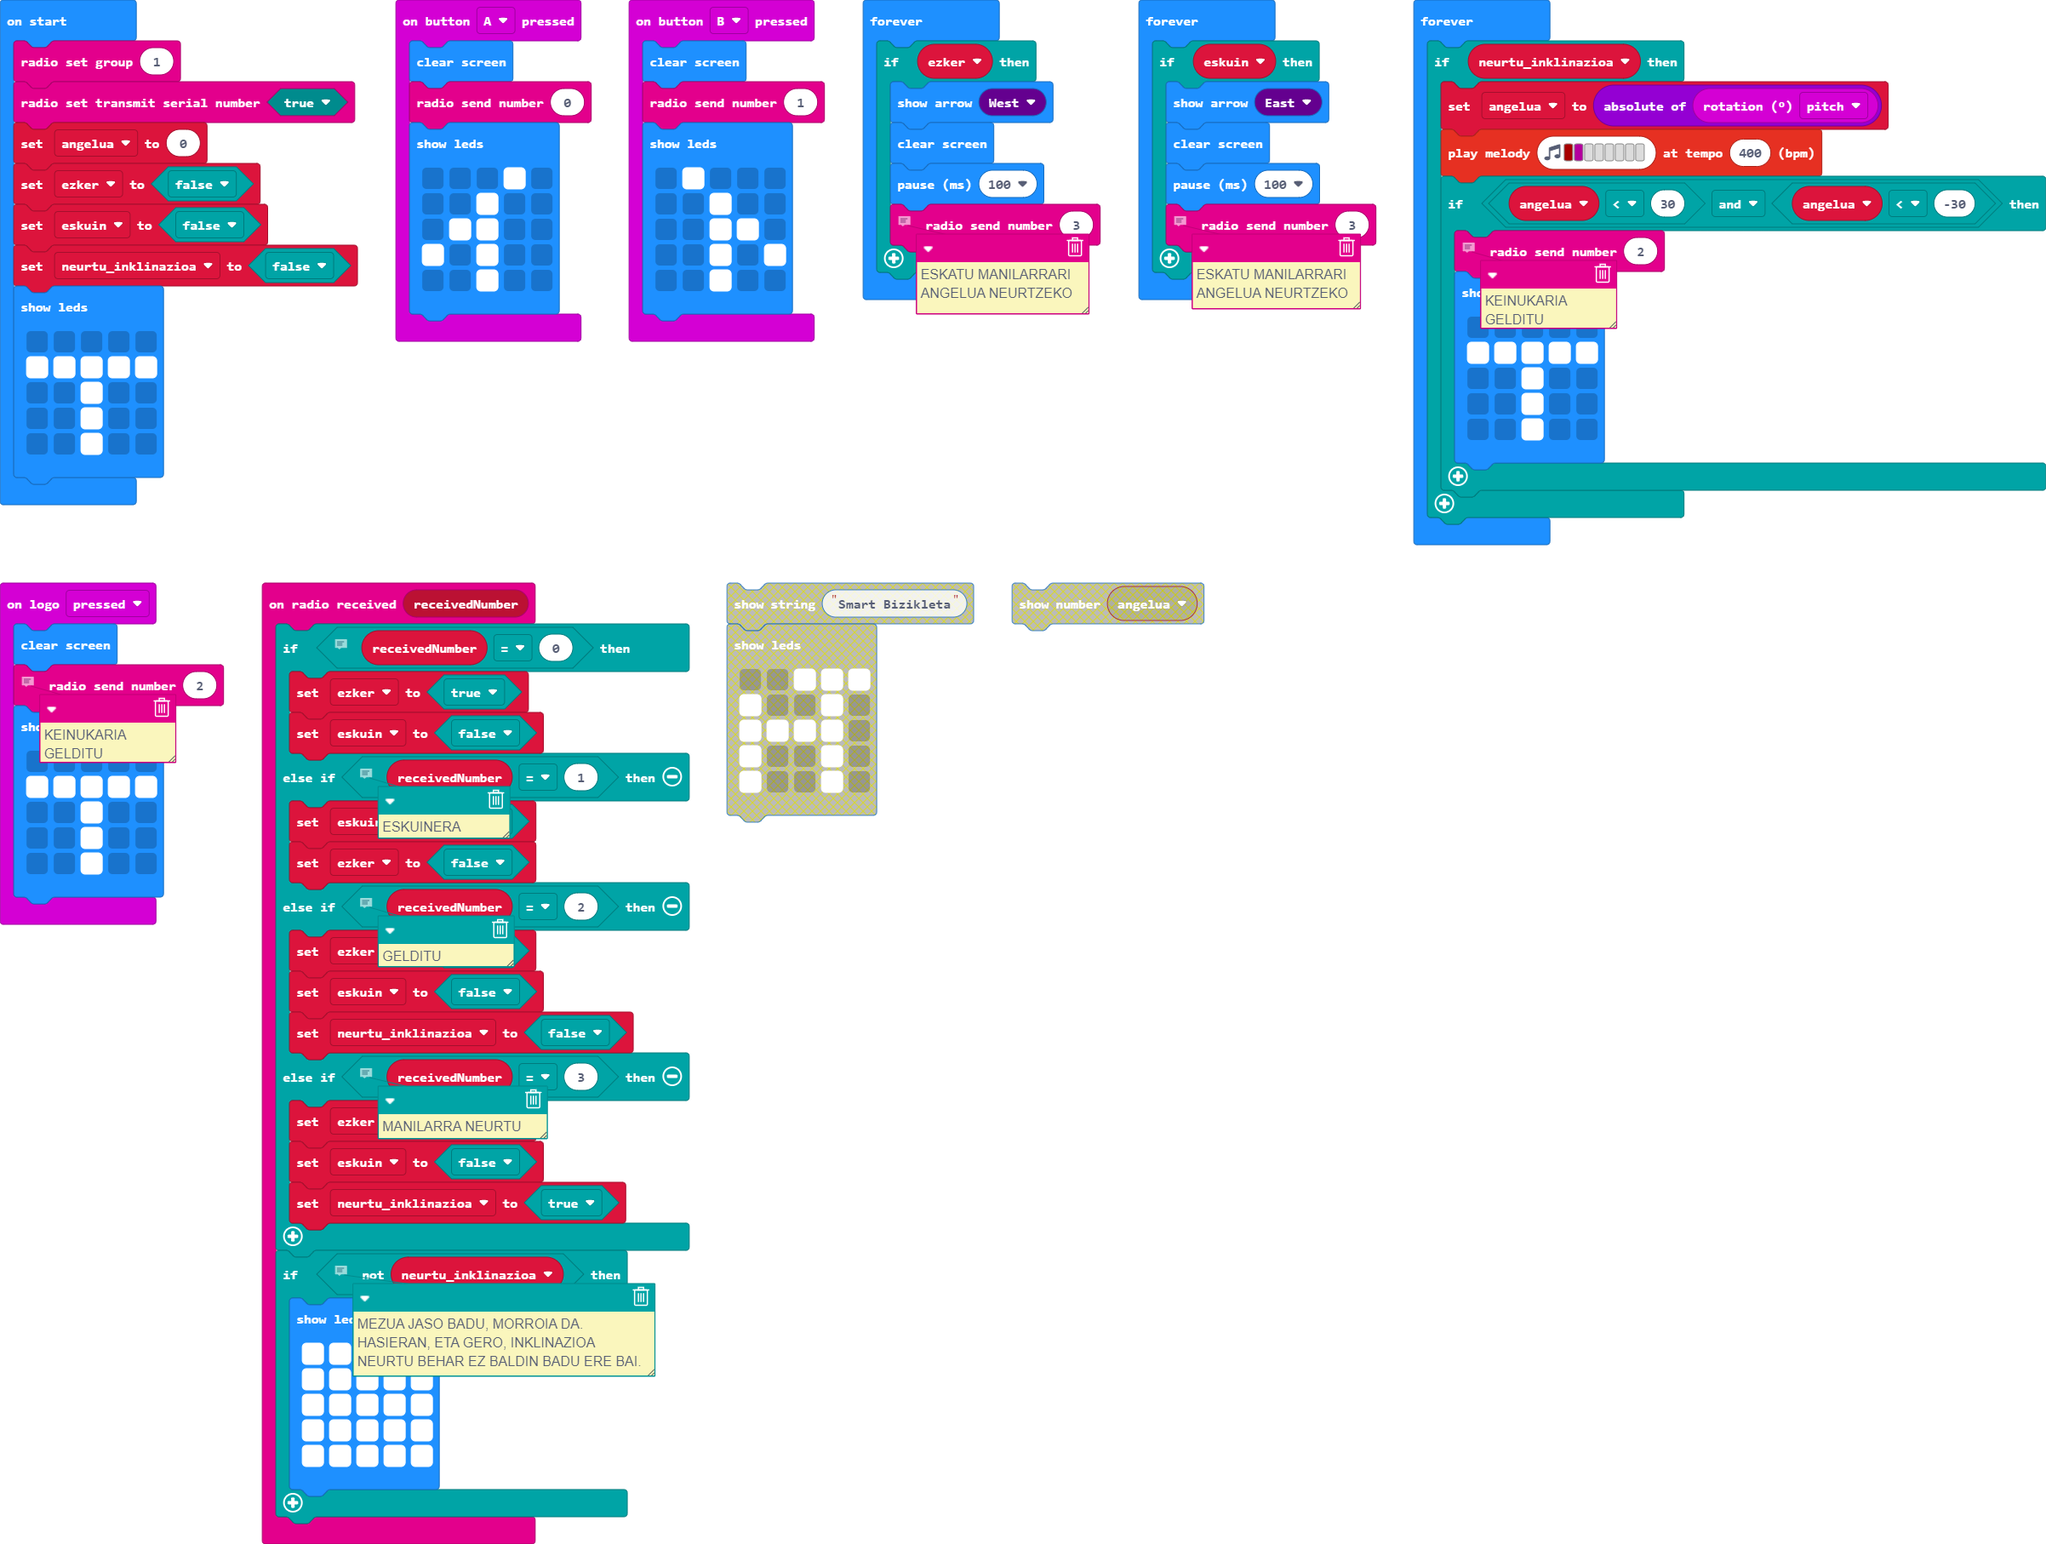
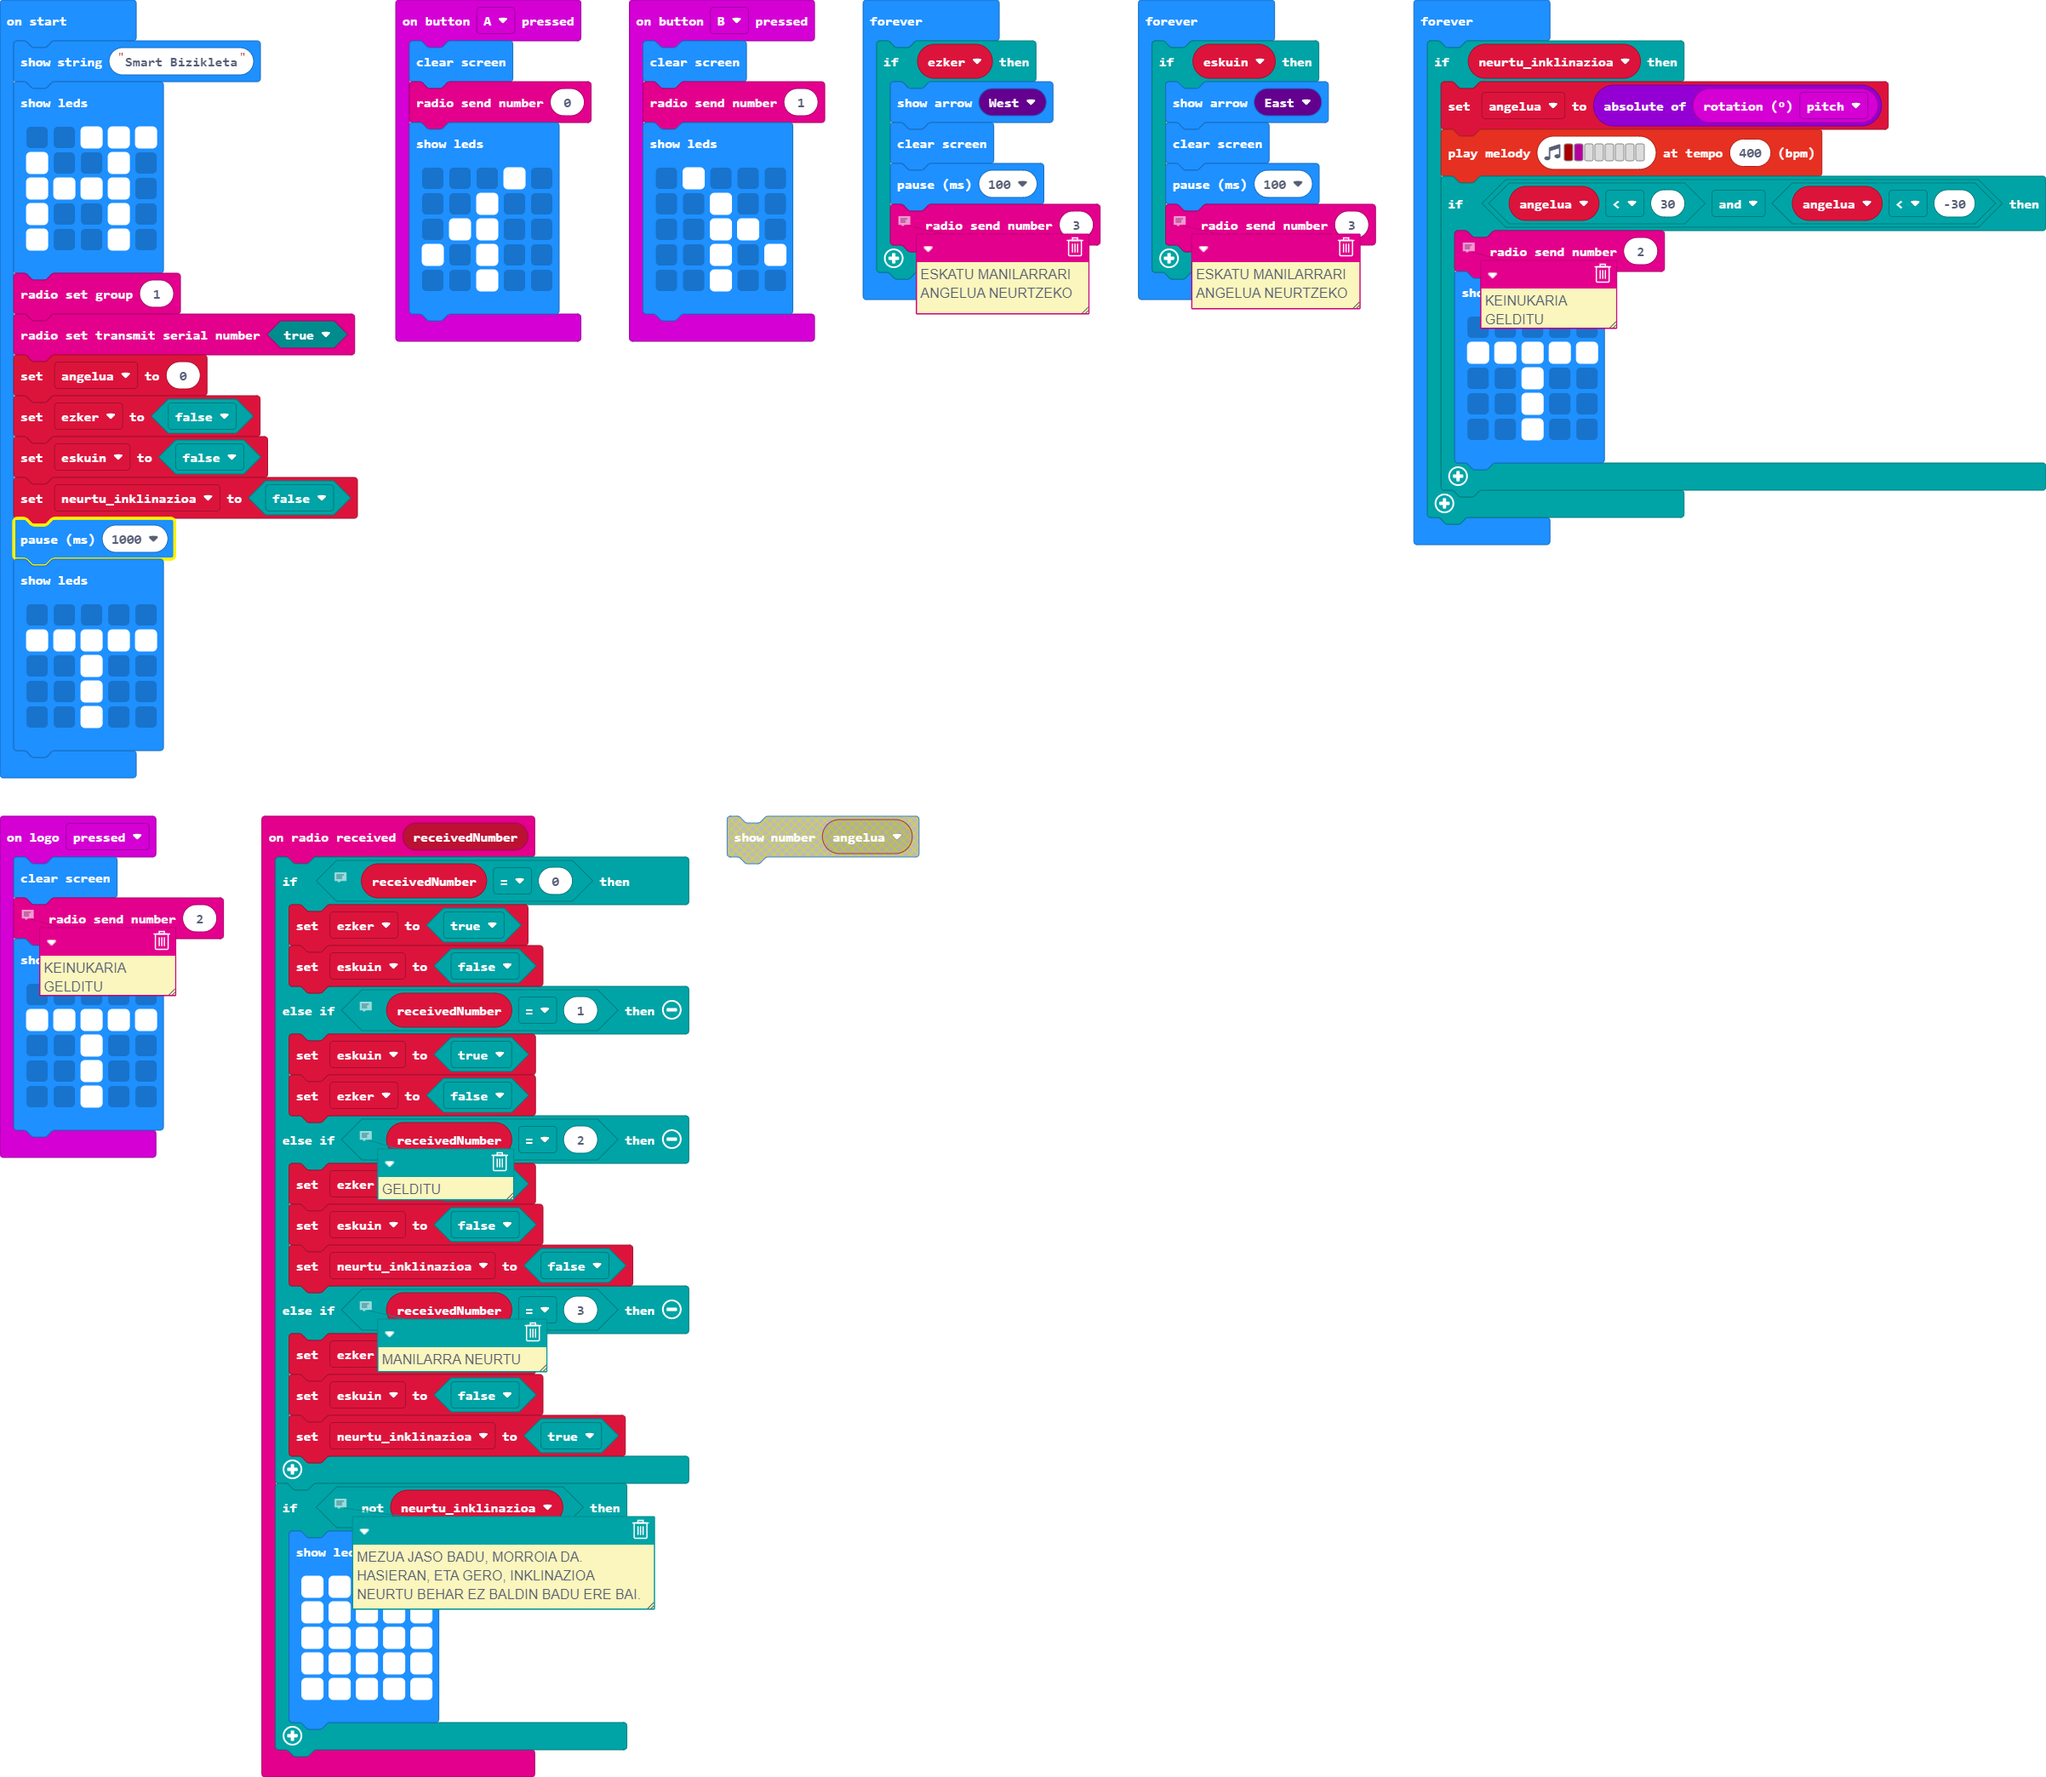
Update main.blocks, main.ts

Changed region(s): [[0.0, 0.0, 1.0, 0.9879]]

diff --git a/main.ts b/main.ts
@@ -66,12 +66,21 @@ input.onLogoEvent(TouchButtonEvent.Pressed, function () {
 let neurtu_inklinazioa = false
 let eskuin = false
 let ezker = false
+basic.showString("Smart Bizikleta")
+basic.showLeds(`
+    . . # # #
+    # . . # .
+    # # # # .
+    # . . # .
+    # . . # .
+    `)
 radio.setGroup(1)
 radio.setTransmitSerialNumber(true)
 let angelua = 0
 ezker = false
 eskuin = false
 neurtu_inklinazioa = false
+basic.pause(1000)
 basic.showLeds(`
     . . . . .
     # # # # #
